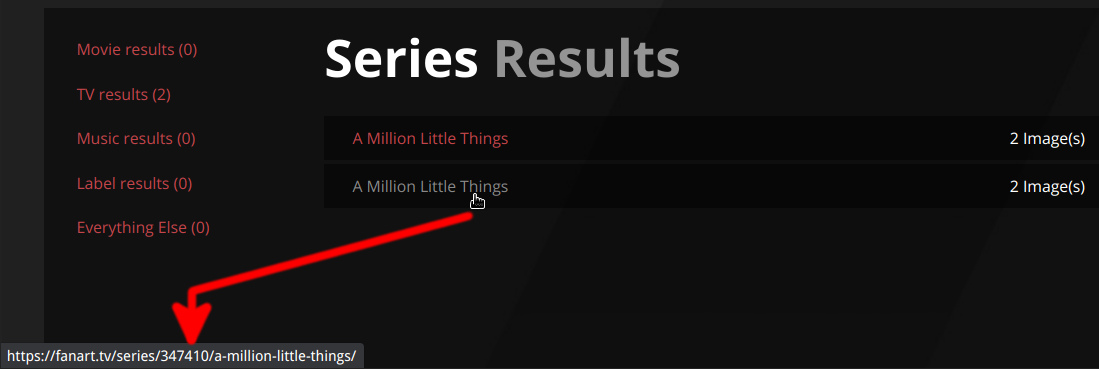
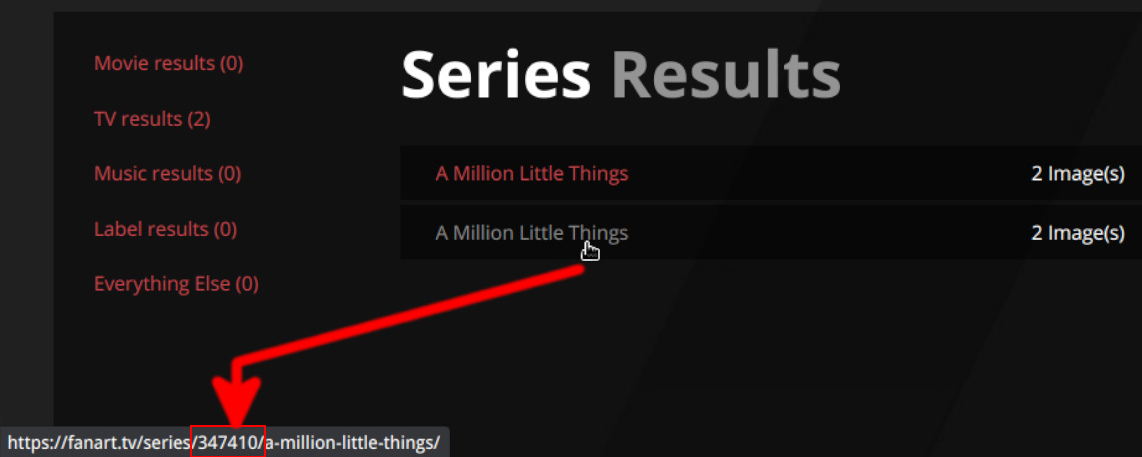
How fanart.tv works r4

diff --git a/docs/General/fanart database.md b/docs/General/fanart database.md
@@ -30,7 +30,9 @@ Use the menu on the right to go directly to a section of interest, or just start
 
 The glue that makes all this work is the __ID#__ used by each database. 
 
-If you can find the entry[^1] on the site where we get the information from, you can use their ID on _our_ site to go directly to that entry, or [add the entry](#add-missing-entries "Add missing entries") if missing. Hover over the images for each of the databases below to recognize where to find the source ID, and where the same ID is on our site. 
+If you can find the entry[^1] on the site where we get the information from, you can use their ID on _our_ site to go directly to that entry, or [add the entry](#add-missing-entries "Add missing entries") if missing. 
+
+Hover over the images for each of the databases below to recognize where to find the source ID, and where the same ID is on our site. 
 
 
 === "TheMovieDB #__290859__"
@@ -140,29 +142,25 @@ Here is a list of some of the issues you may encounter, and how to fix them.
 
 ??? warning "Duplicate Entries"
 
-    So you did a search for “A Million Little Things” on our site and you find duplicate entries. 
+    There will be times when you will find duplicated entries when searching the site. 
 
-    The first thing to note is the ID for each entry. This can be found in most browsers by just hovering over each link.
+    When this happens you will need to know which is the valid entry to submit to, and will need to notify a moderator on [Discord](https://discord.gg/r9VufRk "Fanart.tv Discord server"){target= blank} in the __#issues__ channel so they can [merge the duplicates into one.](#merging-duplicate-entries "Merging duplicate entries")
 
-    ![Hover ID](../assets/images/hftvw-show-id-in-url-hover.jpg)
+    You should also look through both entries so you don't [submit art that already exists](#proper-way-to-make-submissions "Proper way to make submissions"). 
     
-    You can also just go to each entry and look at your address bar to find the ID if the hovering didn’t work.
-    
-    ![URL ID](../assets/images/hftvw-show-id-in-url.jpg)
-    
-    Now that you know both numbers, you can head to thetvdb.org to find out which one to use. So if I searched for “A Million Little Things” on thetvdb.org, I can find this number right in the     results page.
-    
-    ![Search ID](../assets/images/hftvw-tvdb-series-search-id.jpg)
-    
-    This number is also displayed inside the show’s entry.
-    
-    ![Series ID](../assets/images/hftvw-tvdb-series-id.jpg)
-    
-    - Now that you know which entry to upload to, the last thing to do is to please notify a moderator or an admin so it can be fixed in our DB.
+     ---
 
-    - You will also want to check the artwork in the duplicate entry so you won't have your [images denied](#proper-way-to-make-submissions) when they are eventually merged.
+    Find the ID of each duplicate by hovering over the links in the search results, or by going to each result and looking at the URL.
 
-    - The process is basically the same for Movies and Music entries. You can ask for help on [Discord](https://discord.gg/r9VufRk "Fanart.tv Discord server){target= blank} in the __#help-requests__ channel if you are having trouble.
+    === "Hover the Title"
+
+        ![Hover ID](../assets/images/hftvw-show-id-in-url-hover.jpg)
+    
+    === "Go to Title"
+
+        ![URL ID](../assets/images/hftvw-show-id-in-url.jpg)
+
+      Now you can [find the right entry](#finding-the-right-entry "Finding the right entry") at the source database.
 
 ---
 
@@ -170,7 +168,7 @@ Here is a list of some of the issues you may encounter, and how to fix them.
 
 If you do not want to risk having your perfectly good artwork denied later on because the same artwork already exists in an orphaned entry, please ^^Make Sure...^^ 
 
-  1. __You are uploading to the [correct entry](#finding-the-right-entry)__
+  1. __You are uploading to the [correct entry](#finding-the-right-entry "Finding the right entry")__
       - Always find the ID at the source and use that to verify the correct entry on our site.
 
   1. __There are not any orphaned entries on our site already.__
@@ -185,11 +183,11 @@ If you do not want to risk having your perfectly good artwork denied later on be
 
   The sites we source our information from are constantly updating their own information. When they change something in their databases, it doesn’t get propagated to our own site unless we make a new request for that information. _(ie.. refresh our info)_ 
 
-  The preferred way to request a refresh is to ask on [Discord](https://discord.gg/r9VufRk "Fanart.tv Discord server){target= blank} in the __#issues__ channel.
+  The preferred way to request a refresh is to ask on [Discord](https://discord.gg/r9VufRk "Fanart.tv Discord server"){target= blank} in the __#issues__ channel.
 
   You can also use the [Housekeeping](https://forum.fanart.tv/viewforum.php?f=31){target= blank} section of the [forums](https://forum.fanart.tv/index.php){target= blank} if you prefer.
 
-  __Always__ paste a link to the entry to be refreshed, and state the reason for the refresh so the moderator can confirm the desired changed were made.
+  __Always__ paste a link to the entry to be refreshed, and state the reason for the refresh so the moderator can confirm the desired changes were made.
 
 ??? warning "Wait 48 hours after making edits on a source site before requesting a refresh."
   
